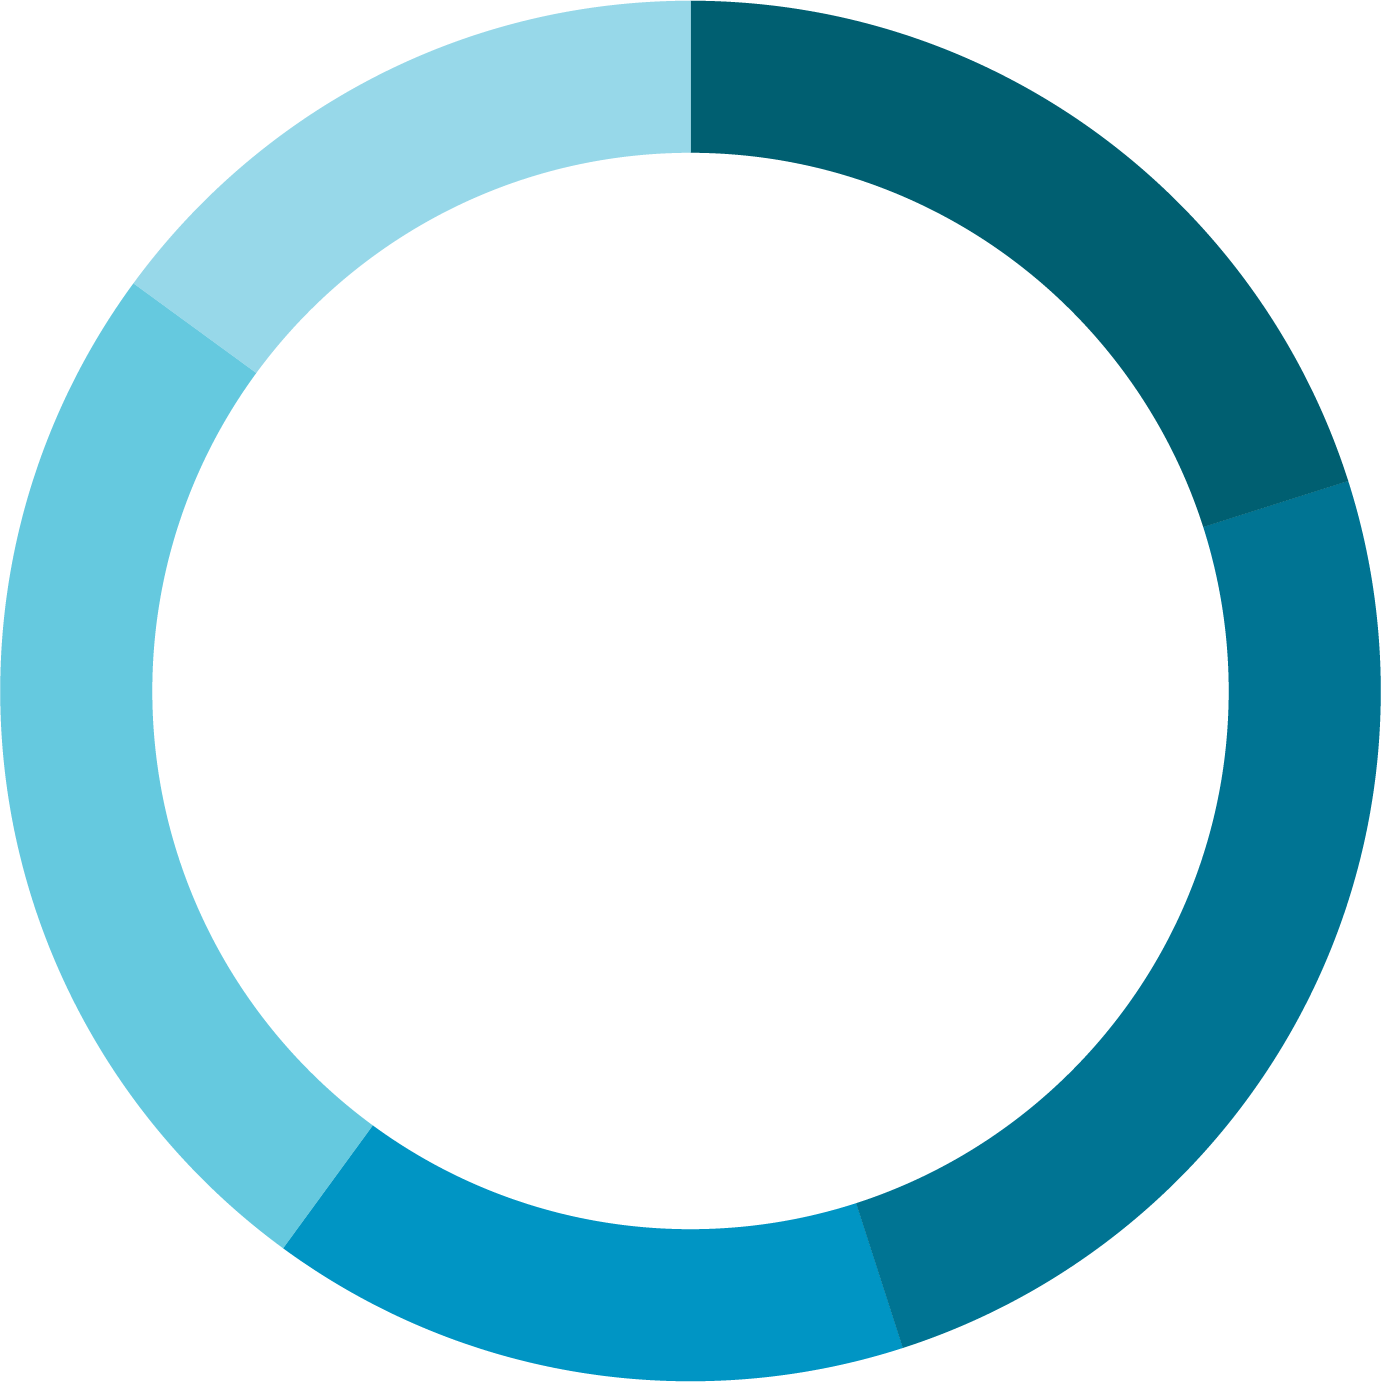
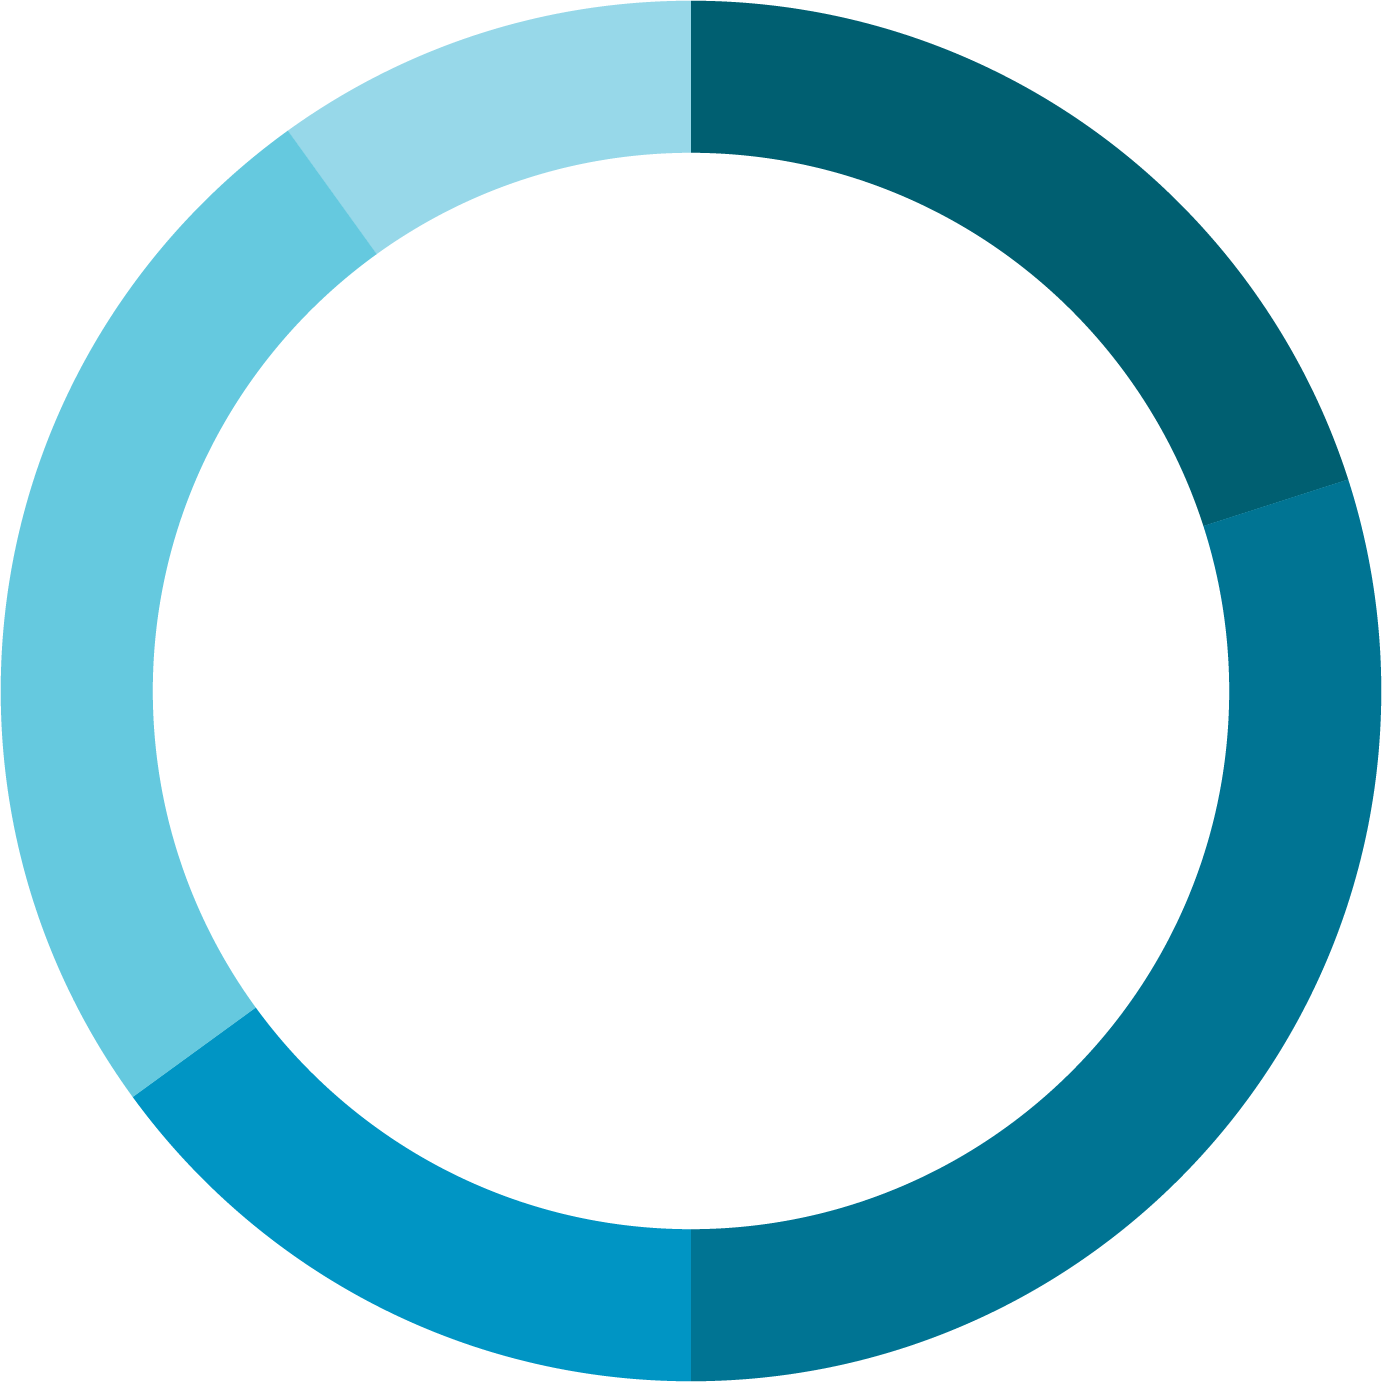
Distribution Edits

diff --git a/ico-site/src/app/distribution/distribution.component.css b/ico-site/src/app/distribution/distribution.component.css
@@ -111,13 +111,13 @@
 }
 
 /*25*/
-.bar-stats.display .bar.sales,
-.bar-stats.display .bar.community{ 
+/*.bar-stats.display{ 
     width: 71.4285714285%;
-}
+}*/
 
 /*20*/
-.bar-stats.display .bar.reserve{ 
+.bar-stats.display .bar.reserve,
+.bar-stats.display .bar.sales{ 
     width: 57.1428571428%;
 }
 
@@ -134,7 +134,8 @@
 }
 
 /*30*/
-.bar-stats.display .bar.marketing{ 
+.bar-stats.display .bar.marketing,
+.bar-stats.display .bar.community{ 
     width: 85.7142857142%;
 }
 
@@ -177,28 +178,28 @@
 }
 
 .pie-stat.reserve{
-    top: 5%;
-    right: 2%;
+    top: -7%;
+    right: 7%;
 }
 
 .pie-stat.foundation{
-    bottom: -19%;
-    left: 41%;
+    bottom: -13%;
+    left: 21%;
 }
 
 .pie-stat.sales{
-    bottom: 38%;
-    left: -5%;
+    bottom: 45%;
+    left: -10%;
 }
 
 .pie-stat.community{
-    top: 74%;
-    right: -4%;
+    bottom: 3%;
+    right: 1%;
 }
 
 .pie-stat.team{
-    top: -9%;
-    left: 17%;
+    top: -12%;
+    left: 31%;
 }
 
 .pie-stat.devops{
@@ -217,8 +218,8 @@
 }
 
 .pie-stat.others{
-    top: -1%;
-    left: 5%;
+    top: -8%;
+    left: 7%;
 }
 
 .long.label{
@@ -256,7 +257,7 @@
     }
 }
 
-@media(max-width: 1242px){
+@media(max-width: 1300px){
     .pie-box{
         padding: 2em;
     }
@@ -271,7 +272,7 @@
     }
 }
 
-@media(max-width: 1025px){
+@media(max-width: 1100px){
     .chart{
         width: 70%;
     }
@@ -287,7 +288,7 @@
 
     .pie-stat.foundation{
         bottom: -24%;
-        left: 35%;
+        left: 12%;
     }
 
     .pie-stat.sales{
@@ -301,8 +302,21 @@
     }
 
     .pie-stat.team{
-        top: -12%;
-        left: 10%;
+        top: -24%;
+        left: 28%;
+    }
+
+    .pie-stat.others{
+        top: -17%;
+        left: -9%;
+    }
+
+    .pie-stat.marketing{
+        bottom: -28%;
+    }
+
+    .pie-stat.rnd{
+        left: -14%;
     }
 
 }
@@ -315,11 +329,11 @@
 
     .stats{
         width: 100%;
-        margin-bottom: 4em;
+        margin-bottom: 9em;
     }
 
     .pie-title{
-        font-size: 2em;
+        font-size: 1.5em;
     }
 
     .pie-stat.devops{
@@ -329,6 +343,11 @@
 
     .bar-stats > ul{
         padding: 1em;
+    }
+
+    .pie-stat.others{
+        top: -11%;
+        left: 3%;
     }
 
 }
@@ -348,11 +367,23 @@
     }
 }
 
+@media(max-width: 560px){
+    .pie-stat.devops{
+        right: -20%;
+    }
+
+    .pie-stat.others{
+        top: -19%;
+        left: -1%;
+    }
+}
+
 @media(max-width: 500px){
     .pie-title{
-        top: -3em;
+        top: -5em;
         -webkit-transform: translate(-50%, 0%);
         transform: translate(-50%, 0%);
+        font-size: 2em;
     }
 
     .pie-box{
@@ -391,10 +422,5 @@
 
     .pie-stat.marketing{
         bottom: -22%;
-    }
-
-    .pie-stat.others{
-        top: -3%;
-        left: -1%;
     }
 }

diff --git a/ico-site/src/app/distribution/distribution.component.html b/ico-site/src/app/distribution/distribution.component.html
@@ -9,19 +9,19 @@
           <div class="label">{{ 'DISTRIBUTION.Reserve Fund' | translate }}</div>
         </div>
         <div class="pie-stat community">
-          <div class="value">25%</div>
+          <div class="value">30%</div>
           <div class="label">{{ 'DISTRIBUTION.Community' | translate }}</div>
         </div>
         <div class="pie-stat foundation">
           <div class="value">15%</div>
-          <div class="label">{{ 'DISTRIBUTION.Foundation' | translate }}</div>
+          <div class="label" style="line-height: 1.2em;">{{ 'DISTRIBUTION.Foundation' | translate }}<br>{{ 'DISTRIBUTION.Foundation-sub' | translate }}</div>
         </div>
         <div class="pie-stat sales">
           <div class="value">25%</div>
           <div class="label">{{ 'DISTRIBUTION.Token Sales' | translate }}</div>
         </div>
         <div class="pie-stat team">
-          <div class="value">15%</div>
+          <div class="value">10%</div>
           <div class="label">{{ 'DISTRIBUTION.Team' | translate }}</div>
         </div>
       </div>
@@ -38,13 +38,13 @@
         <li>
           <div class="bar community bar-4"></div>
           <div class="desc">
-            <span class="label">{{ 'DISTRIBUTION.Community' | translate }}</span>&nbsp;<span class="value">25%</span>
+            <span class="label">{{ 'DISTRIBUTION.Community' | translate }}</span>&nbsp;<span class="value">30%</span>
           </div>
         </li>
         <li>
           <div class="bar foundation bar-2"></div>
           <div class="desc">
-            <span class="label">{{ 'DISTRIBUTION.Foundation' | translate }}</span>&nbsp;<span class="value">15%</span>
+            <span class="label">{{ 'DISTRIBUTION.Foundation' | translate }} {{ 'DISTRIBUTION.Foundation-sub' | translate }}</span>&nbsp;<span class="value">15%</span>
           </div>
         </li>
     		<li>
@@ -56,7 +56,7 @@
     		<li>
     			<div class="bar team bar-5"></div>
     			<div class="desc">
-    				<span class="label">{{ 'DISTRIBUTION.Team' | translate }}</span>&nbsp;<span class="value">15%</span>
+    				<span class="label">{{ 'DISTRIBUTION.Team' | translate }}</span>&nbsp;<span class="value">10%</span>
     			</div>
     		</li>
     	</ul>

diff --git a/ico-site/src/app/benefits/benefits.component.html b/ico-site/src/app/benefits/benefits.component.html
@@ -31,8 +31,8 @@
         class="btn mroe-btn" 
         (click)="toggleShowMore()">{{showMoreLabel}}</button>
       <!-- <button type="button" class="btn whitepaper-btn">Read Whitepaper</button> -->
-      <a class="btn mroe-btn" href="./assets/documents/WhitePaper.pdf" target="_blank" style="border-radius: 0; margin-right: 15px;">{{ 'BENEFIT.Read Whitepaper' | translate }}</a>
-      <a class="btn whitepaper-btn" href="https://goo.gl/forms/gIYLP2JB2Ft3QQ4q1" target="_blank">{{ 'BENEFIT.Register Now' | translate }}</a>
+      <a class="btn mroe-btn whitepaper-btn" href="./assets/documents/WhitePaper.pdf" target="_blank">{{ 'BENEFIT.Read Whitepaper' | translate }}</a>
+      <a class="btn reg-btn" href="https://goo.gl/forms/gIYLP2JB2Ft3QQ4q1" target="_blank">{{ 'BENEFIT.Register Now' | translate }}</a>
     </div>
     <img src='./assets/icons/iphone.png' class="iphone-image">
     <div class="blue-background"></div>

diff --git a/ico-site/src/app/benefits/benefits.component.scss b/ico-site/src/app/benefits/benefits.component.scss
@@ -31,6 +31,16 @@
 }
 
 .whitepaper-btn{
+  text-align: center;
+  padding-left: 30px;
+  padding-right: 30px;
+  border-radius: 0;
+  margin-right: 15px;
+  color: black;
+  background: white;
+}
+
+.reg-btn{
   color: white;
   text-align: center;
   padding-left: 30px;
@@ -158,6 +168,7 @@ ul
 
   .benefits-section{
     min-height: 400px;
+    margin-bottom: 6em;
   }
 
   .blue-background{
@@ -175,11 +186,9 @@ ul
   }
 
   .whitepaper-btn{
-    color: white;
     text-align: center;
     padding-left: 30px;
     padding-right: 30px;
-    background: rgb(0, 151, 200);
     border-radius: 0;
   }
 
